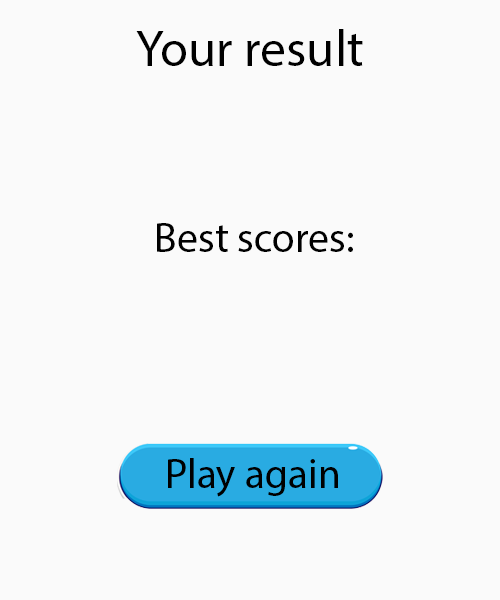
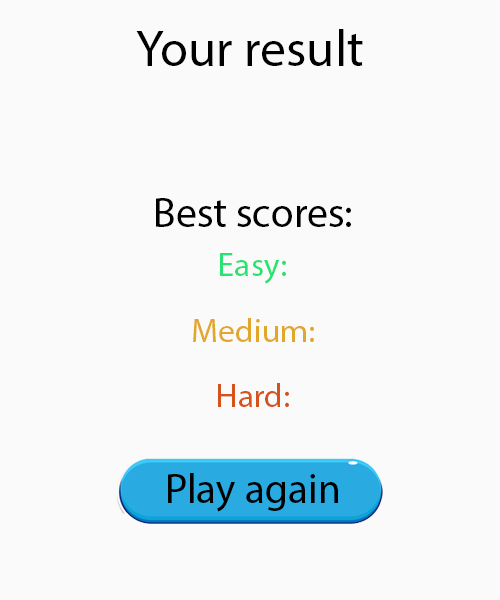
Add displaying best scores and last score

diff --git a/main.py b/main.py
@@ -17,7 +17,7 @@ pygame.init()
 screen_size = (500, 600)
 
 play_again = False
-
+last_game_score = 0
 last_game_possible = True
 
 end_message = ''
@@ -73,6 +73,13 @@ end_message_colours = {
     'victory': (60, 201, 67),
     'defeat': (175, 19, 19)
 }
+difficulty_colors = {
+    'Easy': (41, 226, 111),
+    'Medium': (226, 167, 41),
+    'Hard': (212, 83, 29)
+}
+
+black = (0, 0, 0)
 
 #global variables
 grid_gap = screen_size[0]/9
@@ -97,7 +104,8 @@ font_grid = pygame.font.SysFont(None, 40)
 font_end_message = pygame.font.SysFont(None, 60)
 font_timer = pygame.font.SysFont(None, 80)
 font_notes = pygame.font.SysFont(None, 16)
-
+font_last_game_score = pygame.font.SysFont(None, 40)
+font_best_scores = pygame.font.SysFont(None, 26)
 
 # Screen init
 screen = pygame.display.set_mode((screen_size))
@@ -286,6 +294,7 @@ def save_game(board, time, health):
         json.dump(json_data, json_file)
 
 def count_score(difficulty, time, health):
+    global last_game_score
     if difficulty == "Easy":
         difficulty_level = 1
     elif difficulty == "Medium":
@@ -293,6 +302,7 @@ def count_score(difficulty, time, health):
     elif difficulty == "Hard":
         difficulty_level = 3
     score = int(-1 * (0.3 * difficulty_level / health * time) + 1000)
+    last_game_score = score
     if score >= 0:
         return score
     else:
@@ -304,6 +314,19 @@ def save_score(board, time, health):
     CsvFile.loc[len(CsvFile)] = new_row
     CsvFile.to_csv(paths[current_platform]['resultsDataBase'], index=False)
     print("Score saved", new_row)
+
+def get_score_by_difficulty(difficulty):
+
+    CsvFile = pd.read_csv(paths[current_platform]['resultsDataBase']).sort_values(by=['DifficultyLevel', 'Score'], ascending=[False, False])
+    if difficulty == "Easy":
+        easy_row = CsvFile.loc[CsvFile['DifficultyLevel'] == 'Easy'].iloc[0]
+        return easy_row['Score']
+    if difficulty == "Medium":
+        medium_row = CsvFile.loc[CsvFile['DifficultyLevel'] == 'Medium'].iloc[0]
+        return medium_row['Score']
+    if difficulty == "Hard":
+        hard_row = CsvFile.loc[CsvFile['DifficultyLevel'] == 'Hard'].iloc[0]
+        return hard_row['Score']
 
 def draw_time(start_ticks, recent_time=0):
     time = (pygame.time.get_ticks() - start_ticks) / 1000
@@ -377,6 +400,18 @@ def draw_notes(board):
                 #         text1 = font_grid.render(str(notes[i][j]), 1, colour_themes[current_theme]['number'])
                 #         screen.blit(text1, (i * grid_gap + 20, j * grid_gap + 15))
                 #         # print(i, j, board[i][j], "cords", cords) 
+
+def draw_last_game_score():
+
+    score_text = font_last_game_score.render(str(last_game_score) + ' points', 1, end_message_colours[end_message])
+    screen.blit(score_text, (180, 150))
+
+def draw_best_scores():
+    translation = 0
+    for difficulty in ['Easy', 'Medium', 'Hard']:
+        best_score_text = font_best_scores.render(str(get_score_by_difficulty(str(difficulty))), 1, difficulty_colors[difficulty])
+        screen.blit(best_score_text, (230, 292 + 65 * translation))
+        translation += 1
 
 def main_menu():
     #Main menu funtion
@@ -455,10 +490,10 @@ def game():
     [[0], [0], [0], [0], [0], [0], [0], [0], [0]],
     [[0], [0], [0], [0], [0], [0], [0], [0], [0]]
 ]
-    if board_type == "last":
-        board = test_grid
-    else:
-        board = get_sudoku_grid(board_type)
+    # if board_type == "last":
+    #     board = test_grid
+    # else:
+    board = get_sudoku_grid(board_type)
     pprint(board)
     
     if board_type == "last":
@@ -574,9 +609,12 @@ def end():
 
     run = True
     while run:
-        # debug_mouse_position()
         screen.blit(end_screen,(0, 0))
         screen.blit(end_text, check_score(end_message))
+        if end_message == 'victory':
+            draw_last_game_score()
+
+        draw_best_scores()
 
         for event in pygame.event.get():
             if event.type == pygame.QUIT:
@@ -585,7 +623,7 @@ def end():
                 sys.exit()
             if event.type == pygame.MOUSEBUTTONDOWN:
                 pos = pygame.mouse.get_pos()
-                if pos[0] > 115 and pos[0] < 385 and pos[1] > 440 and pos[1] < 510:
+                if pos[0] > 115 and pos[0] < 385 and pos[1] > 455 and pos[1] < 525:
                     print("Play again")
                     run = False
                     play_again = True
